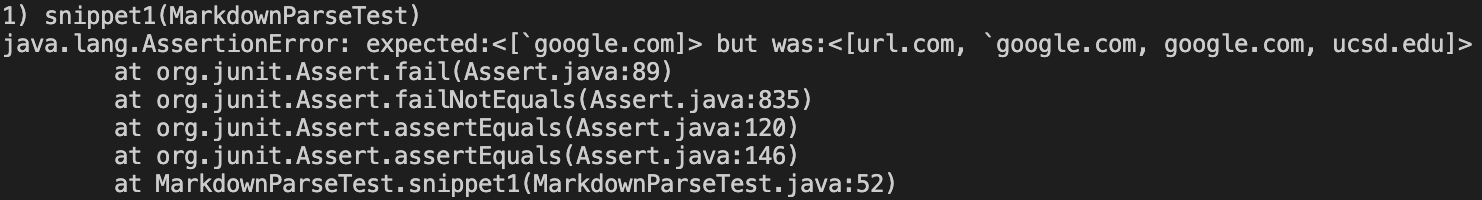
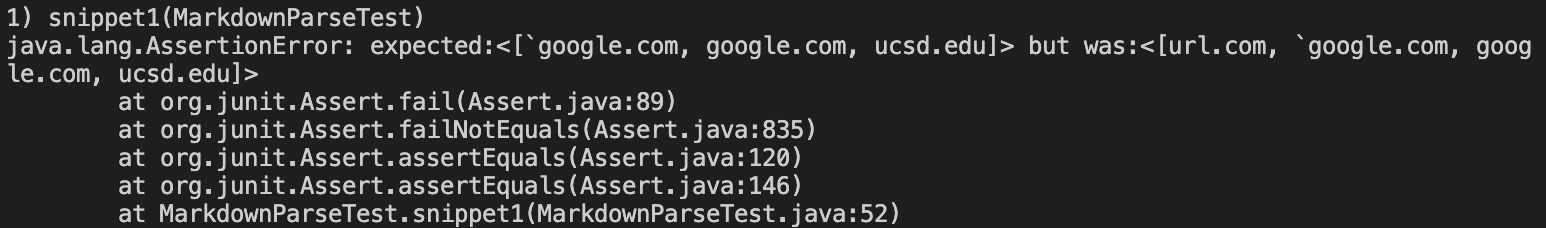
updated lab report

Changed region(s): [[0.0, 0.15, 0.9933, 1.0], [0.0, 0.03, 0.2794, 0.12]]

diff --git a/lab-report-4-week-8.md b/lab-report-4-week-8.md
@@ -6,7 +6,8 @@
 ***
 ## **Snippet 1:**
 
-### *My Test:*
+### *My Test/Expected Outcome:*
+![expected1](labreport4pics/expected1.png)
 
 ![snippet1](labreport4pics/snippet1.png)
 
